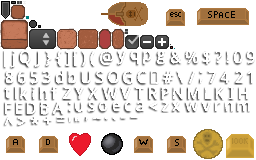
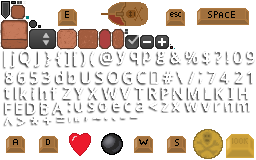
Implemented Shop Screen
Ability to press the 'E' key to open the shop anywhere during the game state.

Currently unable to make use of any buttons within the shop (pressing the buttons closes the shop screen)

Added icon in the tool tips menu for the shop key - icon itself needs updating to match the correct key (currently says 'D'; should say 'E')

Changed region(s): [[0.2188, 0.0312, 0.3125, 0.1875]]

diff --git a/core/src/com/mygdx/game/UI/ShopScreen.java b/core/src/com/mygdx/game/UI/ShopScreen.java
@@ -1,0 +1,104 @@
+package com.mygdx.game.UI;
+
+import com.badlogic.gdx.Gdx;
+import com.badlogic.gdx.scenes.scene2d.Actor;
+import com.badlogic.gdx.scenes.scene2d.ui.Image;
+import com.badlogic.gdx.scenes.scene2d.ui.Label;
+import com.badlogic.gdx.scenes.scene2d.ui.Table;
+import com.badlogic.gdx.scenes.scene2d.ui.TextButton;
+import com.badlogic.gdx.scenes.scene2d.utils.ChangeListener;
+import com.badlogic.gdx.scenes.scene2d.utils.TextureRegionDrawable;
+import com.mygdx.game.Components.Pirate;
+import com.mygdx.game.Entitys.Player;
+import com.mygdx.game.Managers.GameManager;
+import com.mygdx.game.Managers.ResourceManager;
+import com.mygdx.game.PirateGame;
+
+import javax.swing.*;
+
+import static com.mygdx.utils.Constants.VIEWPORT_HEIGHT;
+
+/**
+ * Contains widgets defining the shop screen.
+ */
+public class ShopScreen extends Page {
+    public ShopScreen(PirateGame parent) {
+        super(parent);
+    }
+
+    /**
+     * Create menu widgets such as start button, labels, etc.
+     */
+    @Override
+    protected void CreateActors() {
+        Table t = new Table();
+        t.setFillParent(true);
+
+        float space = VIEWPORT_HEIGHT* 0.05f; // gap between rows in table
+
+        t.setBackground(new TextureRegionDrawable(ResourceManager.getTexture("shopBG.jpg")));
+        Label l = new Label("Shop", parent.skin);
+        l.setFontScale(2);
+        t.add(l).top().spaceBottom(space * 0.5f);
+        t.row();
+
+        t.row();
+        TextButton buyGold = new TextButton("Buy Repairs", parent.skin);
+        buyGold.addListener(new ChangeListener() {
+            @Override
+            public void changed(ChangeEvent event, Actor actor) {
+                parent.setScreen(parent.game);
+            }
+        });
+        t.add(buyGold).top().size(100, 25).spaceBottom(10);
+        t.row();
+        t.add(new Image(parent.skin, "coin")).top().left();
+        t.add(new Label("20", parent.skin)).right().spaceBottom(space);
+
+
+        t.row();
+        TextButton buyAmmo = new TextButton("Buy Ammo", parent.skin);
+        buyAmmo.addListener(new ChangeListener() {
+            @Override
+            public void changed(ChangeEvent event, Actor actor) {
+                parent.setScreen(parent.game);
+            }
+        });
+        t.add(buyAmmo).size(100, 25).top().spaceBottom(10);
+        t.row();
+        t.add(new Image(parent.skin, "ball")).top().left();
+        t.add(new Label("10", parent.skin)).right().spaceBottom(space);
+
+
+        t.row();
+        TextButton back = new TextButton("Return", parent.skin);
+        back.addListener(new ChangeListener() {
+            @Override
+            public void changed(ChangeEvent event, Actor actor) {
+                parent.setScreen(parent.game);
+            }
+        });
+        t.add(back).top().size(100, 25).spaceBottom(space);
+
+        t.top();
+
+        actors.add(t);
+    }
+
+    @Override
+    public void show() {
+        super.show();
+    }
+
+    @Override
+    public void hide() {
+        super.hide();
+    }
+
+    @Override
+    public void resize(int width, int height) {
+        super.resize(width, height);
+        Table t = (Table) actors.get(0);
+        t.setBackground(new TextureRegionDrawable(ResourceManager.getTexture("shopBG.jpg"))); // prevent the bg being stretched
+    }
+}

diff --git a/core/src/com/mygdx/game/PirateGame.java b/core/src/com/mygdx/game/PirateGame.java
@@ -9,6 +9,7 @@ import com.mygdx.game.Managers.ResourceManager;
 import com.mygdx.game.UI.EndScreen;
 import com.mygdx.game.UI.GameScreen;
 import com.mygdx.game.UI.MenuScreen;
+import com.mygdx.game.UI.ShopScreen;
 
 /**
  * Contains class instances of game UI screens.
@@ -19,6 +20,7 @@ public class PirateGame extends Game {
     public EndScreen end;
     public Stage stage;
     public Skin skin;
+    public ShopScreen shop;
 
     /**
      * Create instances of game stage and UI screens.
@@ -32,12 +34,14 @@ public class PirateGame extends Game {
         int extras_id = ResourceManager.addTextureAtlas("UISkin/skin.atlas");
         int buildings_id = ResourceManager.addTextureAtlas("Buildings.txt");
         ResourceManager.addTexture("menuBG.jpg");
+        ResourceManager.addTexture("shopBG.jpg");
         ResourceManager.addTexture("Chest.png");
         ResourceManager.loadAssets();
         // cant load any more resources after this point (just functionally I choose not to implement)
         stage = new Stage(new ScreenViewport());
         createSkin();
         menu = new MenuScreen(this);
+        shop = new ShopScreen(this);
         game = new GameScreen(this, id_map);
         end = new EndScreen(this);
         setScreen(menu);
@@ -49,6 +53,7 @@ public class PirateGame extends Game {
     @Override
     public void dispose() {
         menu.dispose();
+        shop.dispose();
         game.dispose();
         stage.dispose();
         skin.dispose();

diff --git a/core/src/com/mygdx/game/UI/GameScreen.java b/core/src/com/mygdx/game/UI/GameScreen.java
@@ -99,6 +99,9 @@ public class GameScreen extends Page {
         table.row();
         table.add(new Label("Quit", parent.skin)).left();
         table.add(new Image(parent.skin, "key-esc"));
+        table.row();
+        table.add(new Label("Shop", parent.skin)).left();
+        table.add(new Image(parent.skin, "key-d"));
 
     }
 
@@ -126,10 +129,10 @@ public class GameScreen extends Page {
         GameManager.update();
         // show end screen if esc is pressed
         if (Gdx.input.isKeyJustPressed(Input.Keys.ESCAPE)) {
-
-
-
             parent.setScreen(parent.end);
+        }
+        if (Gdx.input.isKeyJustPressed(Input.Keys.E)) {
+            parent.setScreen(parent.shop);
         }
         super.render(delta);
     }
